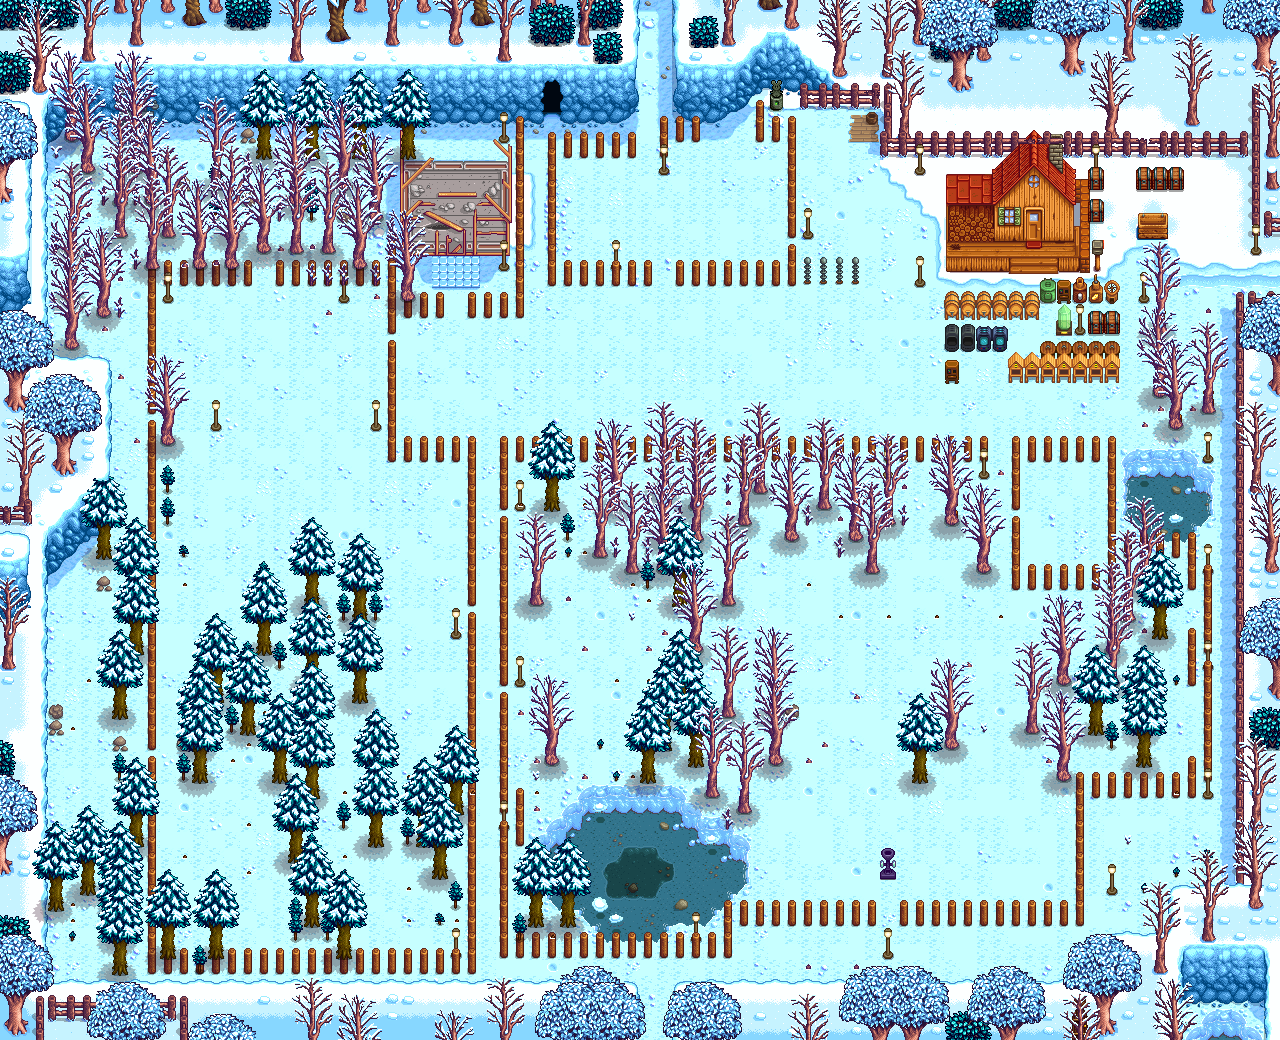
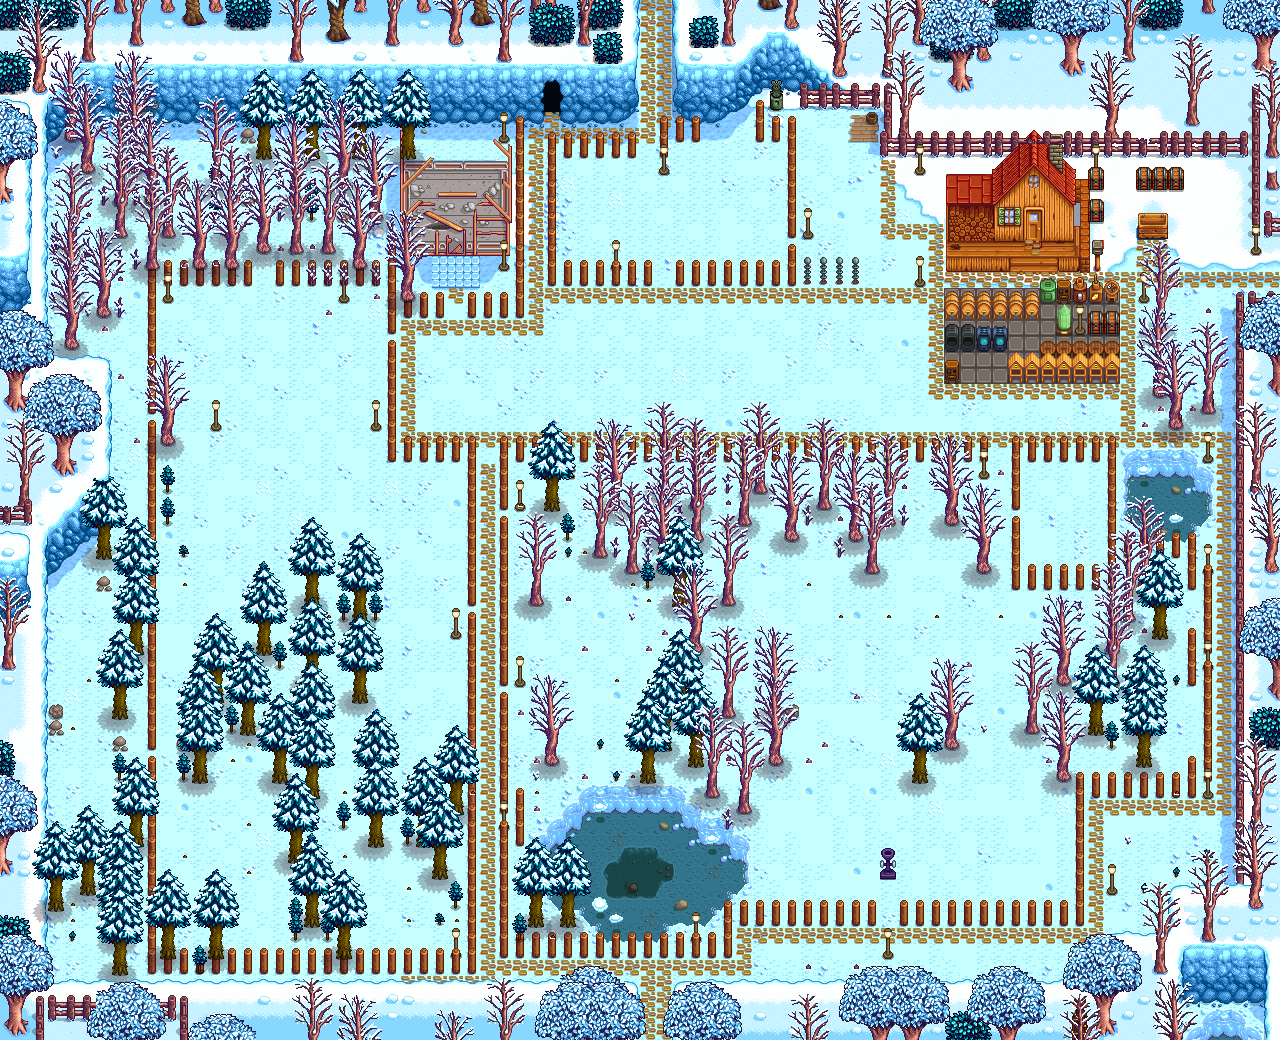
Basic Flooring support

Changed region(s): [[0.3125, 0.0, 1.0, 1.0], [0.4375, 0.4, 0.5, 0.4308]]

diff --git a/view/draw.go b/view/draw.go
@@ -73,6 +73,30 @@ func maybeFlip(flip bool, img image.Image, r image.Rectangle) image.Image {
 	return img
 }
 
+func flooringRect(whichFloor int) image.Rectangle {
+	return xnaRect(
+		whichFloor%4*64,
+		whichFloor/4*64,
+		16, 16)
+}
+
+func drawFlooring(pm *parser.Map, item *parser.TerrainItem, img draw.Image) {
+	m := pm.TMX
+	if item.Value.TerrainFeature.Type != "Flooring" {
+		return
+	}
+	src, err := pm.FetchSource("../TerrainFeatures/Flooring.png")
+	if err != nil {
+		log.Fatalf("Error fetching image asset %v", err)
+	}
+	sr := flooringRect(item.Value.TerrainFeature.WhichFloor)
+	r := sr.Sub(sr.Min).Add(image.Point{
+		// TODO: support for neighbor connections (also missing for fences).
+		item.Key.Vector2.X * m.TileWidth,
+		item.Key.Vector2.Y * m.TileHeight,
+	})
+	draw.DrawMask(img, r, src, sr.Min, mask, sr.Min, draw.Over)
+}
 func drawTree(pm *parser.Map, season string, item *parser.TerrainItem, img draw.Image) {
 	m := pm.TMX
 
@@ -206,7 +230,7 @@ func drawObject(pm *parser.Map, item *parser.ObjectItem, img draw.Image) {
 	if err != nil {
 		// TODO: don't panic, but make sure that we only lookup safe locations.
 		// Also cache the failure result so we don't have to check again.
-		log.Printf("Error fetching terrain asset %v: %v", sourcePath, err)
+		log.Printf("Error fetching asset %v: %v", sourcePath, err)
 		panic(err)
 	}
 	srcBounds := src.Bounds()
@@ -258,6 +282,18 @@ func WriteImage(pm *parser.Map, sg *parser.SaveGame, w io.Writer) {
 	// TODO: do not trust the user input. Don't hit files or slice indexes based on data.
 	m := pm.TMX
 
+	// Order items and objects to be displayed based on their Y order. Items with a higher Y should be drawn last.
+	items := make([][]*parser.TerrainItem, m.Height)
+	for i := range farm.TerrainFeatures.Items {
+		item := farm.TerrainFeatures.Items[i] // separate pointer for each item
+		items[item.Y()] = append(items[item.Y()], &item)
+	}
+	objects := make([][]*parser.ObjectItem, m.Height)
+	for i := range farm.Objects.Items {
+		object := farm.Objects.Items[i] // separate pointer for each item
+		objects[object.Y()] = append(objects[object.Y()], &object)
+	}
+
 	dirt := &image.Uniform{color.RGBA{0xEE, 0xAC, 0x24, 0xFF}}
 	img := image.NewRGBA(image.Rect(0, 0, m.Width*m.TileWidth, m.Height*m.TileHeight))
 
@@ -296,41 +332,23 @@ func WriteImage(pm *parser.Map, sg *parser.SaveGame, w io.Writer) {
 			draw.DrawMask(img, r, src, sr.Min, mask, sr.Min, draw.Over)
 		}
 	}
-
-	{
-
-		objects := make([][]*parser.ObjectItem, m.Height)
-		for i := range farm.Objects.Items {
-			object := farm.Objects.Items[i] // separate pointer for each item
-			objects[object.Y()] = append(objects[object.Y()], &object)
+	// Draw flooring first.
+	for _, row := range items {
+		for _, item := range row {
+			drawFlooring(pm, item, img)
 		}
-
-		for _, row := range objects {
-			for _, item := range row {
-				drawObject(pm, item, img)
-			}
+	}
+	for _, row := range objects {
+		for _, item := range row {
+			drawObject(pm, item, img)
 		}
-
 	}
 
-	{
-		// Order items to be displayed based on their Y order. Items with a higher Y should be drawn last.
-		items := make([][]*parser.TerrainItem, m.Height)
-		for i := range farm.TerrainFeatures.Items {
-			item := farm.TerrainFeatures.Items[i] // separate pointer for each item
-			items[item.Y()] = append(items[item.Y()], &item)
+	for _, row := range items {
+		for _, item := range row {
+			drawTree(pm, sg.CurrentSeason, item, img)
+			drawGrass(pm, item, img) //
 		}
-
-		{
-
-			for _, row := range items {
-				for _, item := range row {
-					drawTree(pm, sg.CurrentSeason, item, img)
-					drawGrass(pm, item, img) //
-				}
-			}
-		}
-
 	}
 
 	for y := 0; y < m.Height; y++ {

diff --git a/parser/parse_savegame.go b/parser/parse_savegame.go
@@ -94,6 +94,8 @@ type TerrainFeature struct {
 
 	GrassType     int `xml:"grassType"`
 	NumberOfWeeds int `xml:"numberOfWeeds"`
+
+	WhichFloor int `xml:"whichFloor"`
 	// Always 0 in the save game.
 	// GrassSourceOffset int `xml:"grassSourceOffset"`
 }
